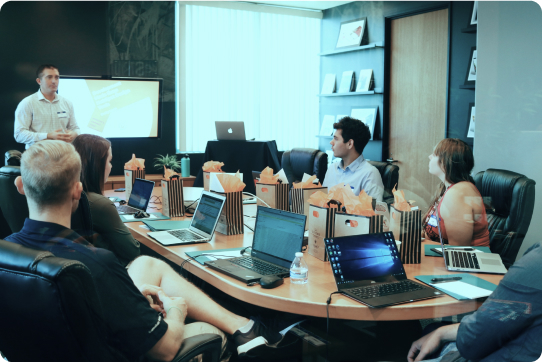
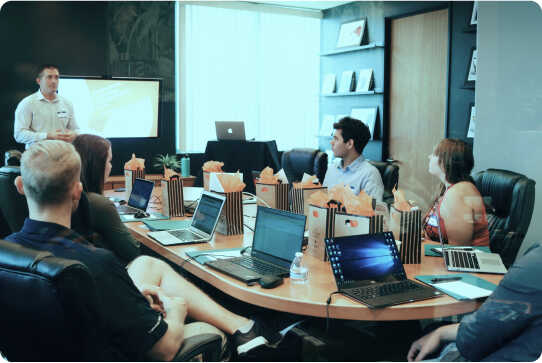
Performance (#14)
- Changed and optimized images weights and import to Poppins font

diff --git a/index.html b/index.html
@@ -21,9 +21,6 @@
   <meta property="og:site_name" content="Communitty C">
   <meta property="og:image" content="https://communittyc.com/assets/images/communittyc-cover.png">
   <title>Communitty C - Inicio</title>
-  <link rel="preconnect" href="https://fonts.googleapis.com">
-  <link rel="preconnect" href="https://fonts.gstatic.com" crossorigin>
-  <link href="https://fonts.googleapis.com/css2?family=Poppins:wght@300;400;500;600;700&display=swap" rel="stylesheet">
   <link rel="stylesheet" href="./style.css">
   <link rel="icon" href="/assets/icons/isologo-communitty-c.svg" sizes="100x100">
 </head>
@@ -306,7 +303,7 @@
               Solicitar consultoría
             </a>
             <img src="assets/images/services-consulting-1.jpg" alt="Imagen ilustrativa trabajando"
-              class="img-services" />
+              class="img-services" loading="lazy" width="456px" height="320px" />
           </div>
           <div class="our-services__card">
             <span class="subtitle">Servicios de implementación</span>
@@ -324,7 +321,7 @@
               Solicitar implementación
             </a>
             <img src="assets/images/services-implementation.jpg" alt="Imagen ilustrativa trabajando"
-              class="img-services" />
+              class="img-services" loading="lazy" width="456px" height="320px" />
           </div>
         </div>
       </div>

diff --git a/pages/proyectos.html b/pages/proyectos.html
@@ -21,9 +21,6 @@
   <meta property="og:site_name" content="Communitty C">
   <meta property="og:image" content="https://communittyc.com/assets/images/communittyc-cover.png">
   <title>Communitty C - Proyectos</title>
-  <link rel="preconnect" href="https://fonts.googleapis.com">
-  <link rel="preconnect" href="https://fonts.gstatic.com" crossorigin>
-  <link href="https://fonts.googleapis.com/css2?family=Poppins:wght@300;400;500;600;700&display=swap" rel="stylesheet">
   <link rel="stylesheet" href="../style.css">
   <link rel="icon" href="/assets/icons/isologo-communitty-c.svg" sizes="100x100">
 </head>

diff --git a/pages/servicios.html b/pages/servicios.html
@@ -20,9 +20,6 @@
   <meta property="og:site_name" content="Communitty C">
   <meta property="og:image" content="https://communittyc.com/assets/images/communittyc-cover.png">
   <title>Communitty C - Servicios</title>
-  <link rel="preconnect" href="https://fonts.googleapis.com">
-  <link rel="preconnect" href="https://fonts.gstatic.com" crossorigin>
-  <link href="https://fonts.googleapis.com/css2?family=Poppins:wght@300;400;500;600;700&display=swap" rel="stylesheet">
   <link rel="stylesheet" href="../style.css">
   <link rel="icon" href="/assets/icons/isologo-communitty-c.svg" sizes="100x100">
 </head>

diff --git a/style.css b/style.css
@@ -1,4 +1,6 @@
 /* reset styles */
+@import url('https://fonts.googleapis.com/css2?family=Poppins:wght@100;200;300;400;500;600;700;800;900&display=swap');
+
 * {
   box-sizing: border-box;
   font-family: 'Poppins', sans-serif;
@@ -20,6 +22,7 @@ a,
 button,
 select,
 textarea {
+  font-display: swap;
   font-size: 16px;
   font-weight: 500;
   line-height: 27px;
@@ -658,6 +661,7 @@ body {
   border-radius: 12px;
   align-self: center;
   display: flex;
+  object-fit: cover;
 }
 
 .our-services__button {
